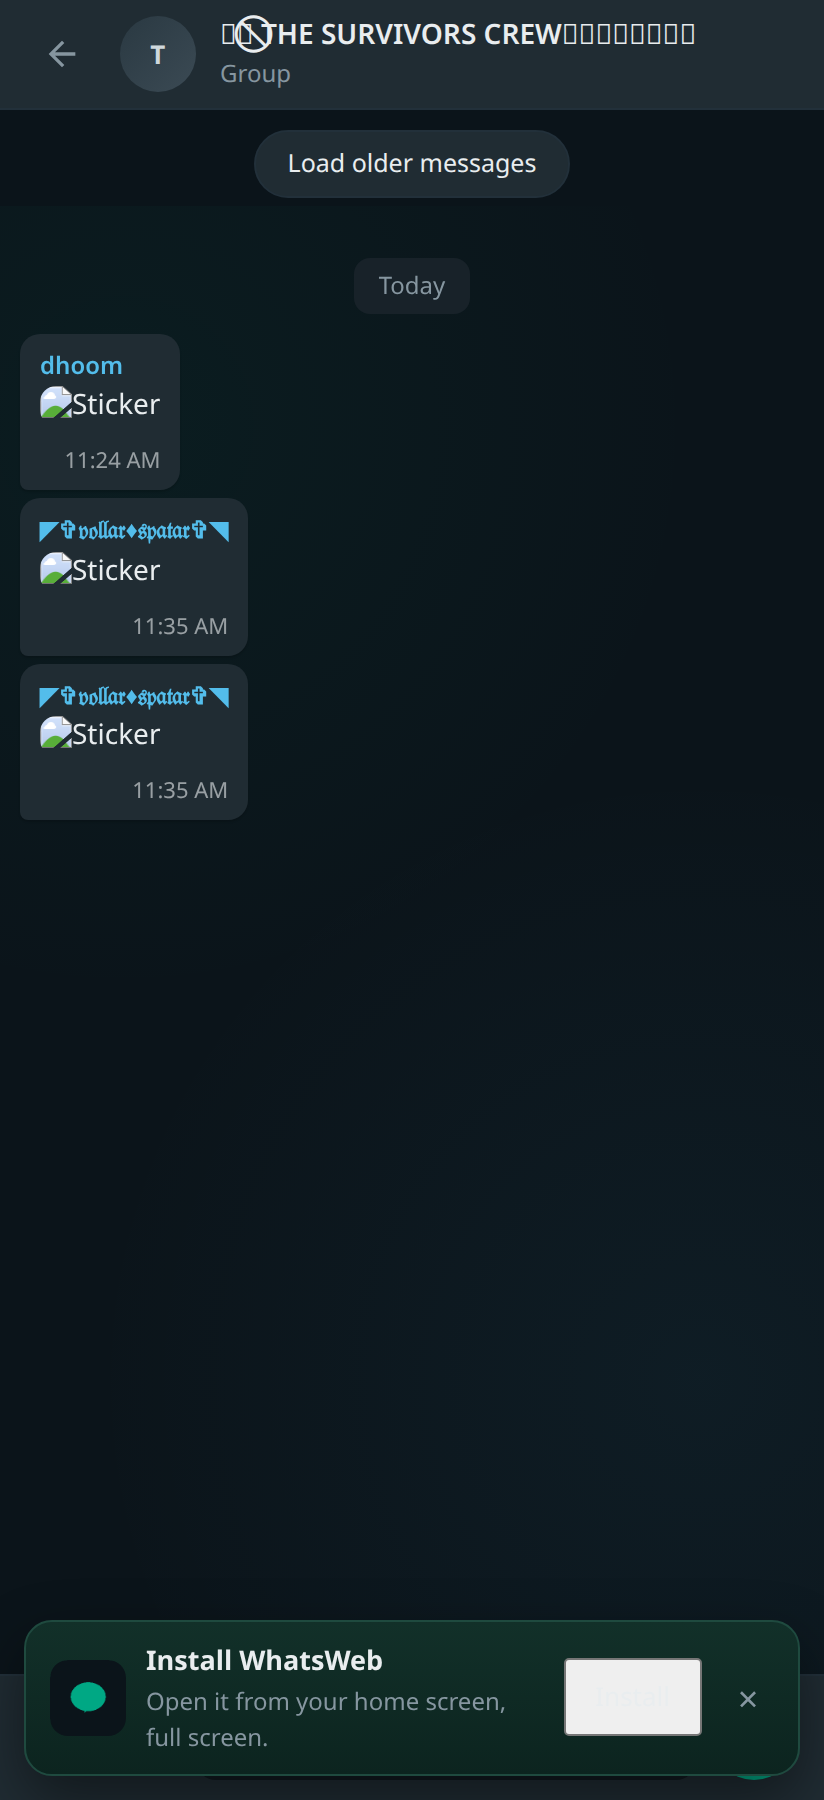
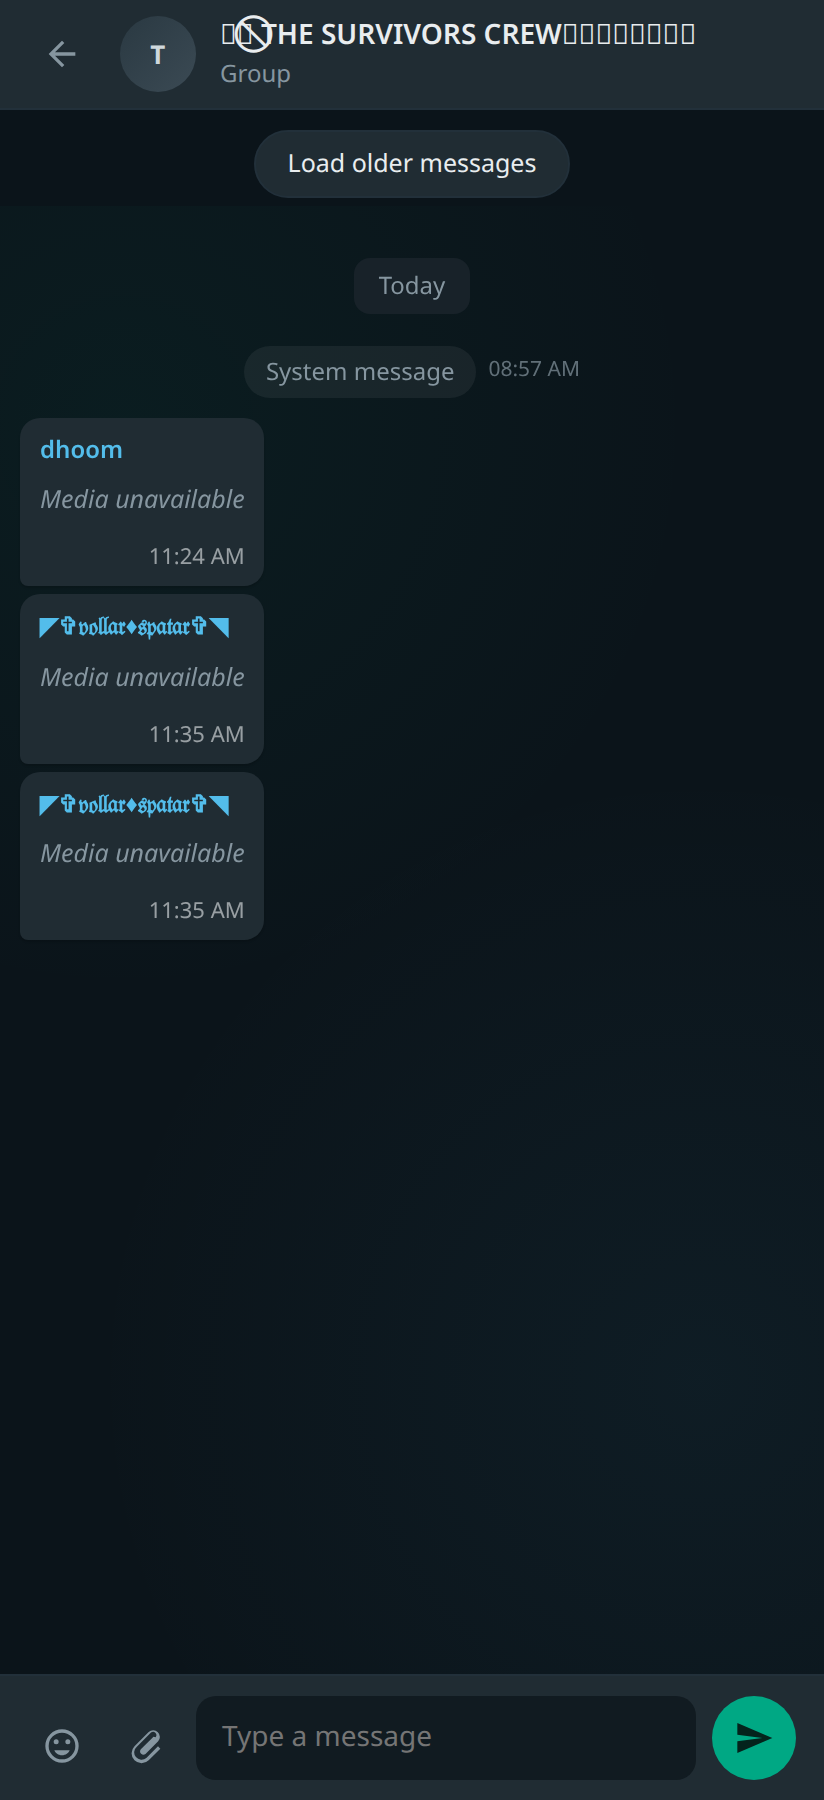
Surface why an older-history request failed

diff --git a/server.js b/server.js
@@ -217,7 +217,8 @@ app.get("/api/chats/:jid/avatar", async (req, res) => {
 app.post("/api/chats/:jid/older", async (req, res) => {
   const count = Math.min(Math.max(Number(req.body?.count) || 50, 10), 100);
   const out = await wa.loadOlder(decodeURIComponent(req.params.jid), count);
-  res.status(out.ok ? 200 : 400).json(out);
+  // `error` is what the client surfaces in a toast; `reason` stays for the API.
+  res.status(out.ok ? 200 : 400).json({ ...out, error: out.reason });
 });
 
 app.post("/api/chats/:jid/read", async (req, res) => {

diff --git a/public/sw.js b/public/sw.js
@@ -1,5 +1,5 @@
 /* Shell cache only. Chats and media always come from the network. */
-const SHELL = "whatsweb-shell-v38";
+const SHELL = "whatsweb-shell-v39";
 const ASSETS = ["/", "/app.js", "/styles.css", "/manifest.webmanifest", "/icon-192.png", "/icon-512.png", "/fonts/sedgwick-ave-display.woff2"];
 
 self.addEventListener("install", (e) => {
